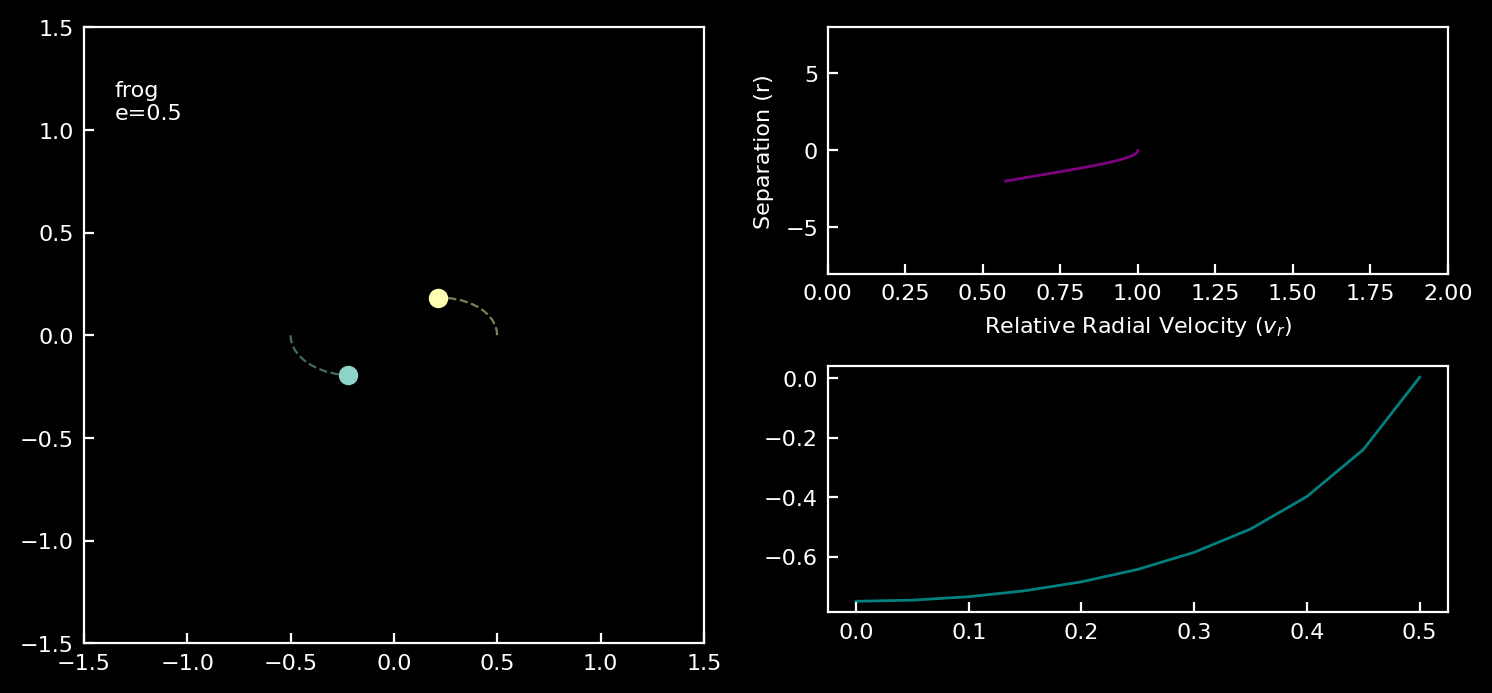
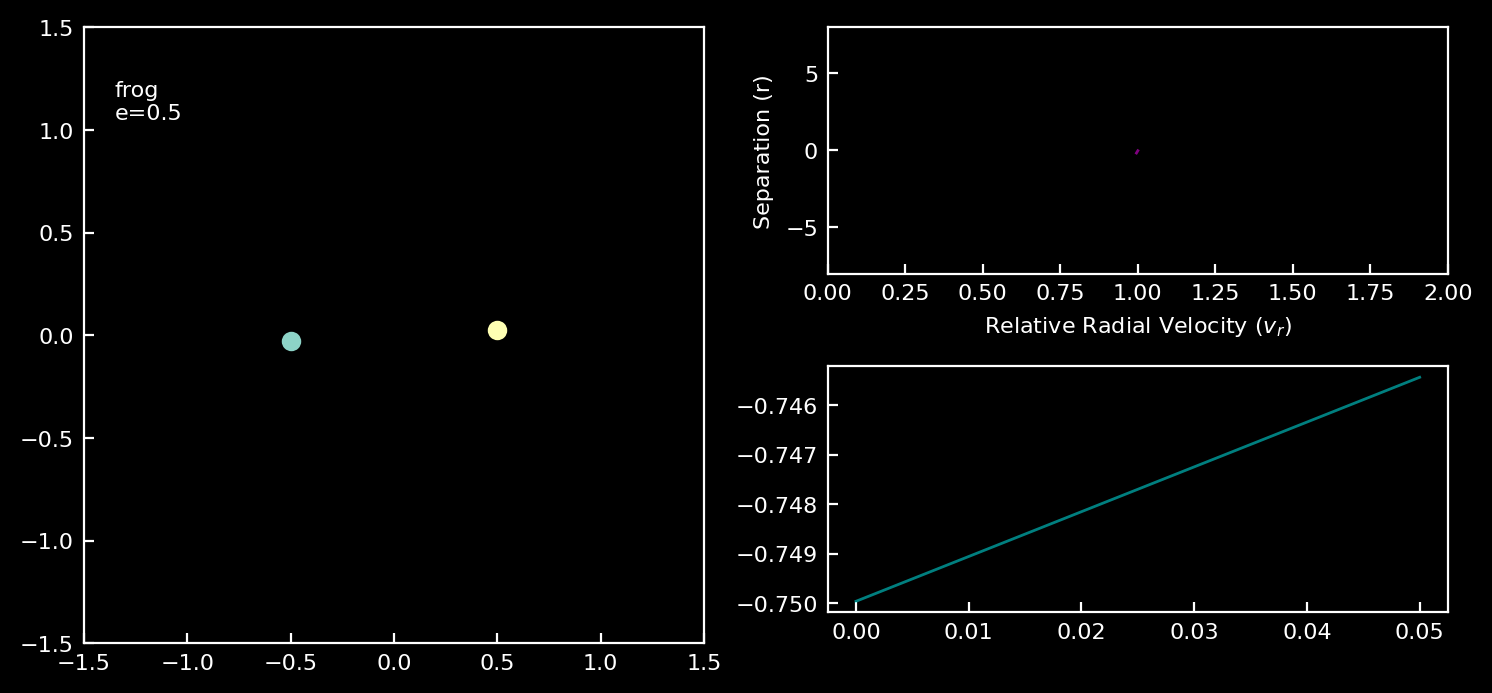
definition of energy is wrong

diff --git a/hws/hw_6_garcia/pset6_frog.c b/hws/hw_6_garcia/pset6_frog.c
@@ -21,15 +21,15 @@ int readmatrix(size_t rows, size_t cols, float (*a)[cols], const char* filename)
     }
 
 
-    fclose (pf); 
-    return 1; 
+    fclose (pf);
+    return 1;
 }
 
 void grav_deriv(float t, float init[][6], float val_derivs[][6], float mass_vec[], int particles){
     // each row of init is a particle with 6 columns for the parameters
     // the first three columns are (x,y,z), followed by the velocities for each component
     // each row of val derivs is the corresponding derivatives; i.e. (vx,vy,vz,ax,ay,az)
-    float G = 1.0; 
+    float G = 1.0;
 
     for (int primary_p = 0;  primary_p < particles;  primary_p++){
         // loop over the particles, finding the acceleartions by considering all others as secondaries.
@@ -49,8 +49,8 @@ void grav_deriv(float t, float init[][6], float val_derivs[][6], float mass_vec[
         float p_acc_x = 0;
         float p_acc_y = 0;
         float p_acc_z = 0;
-        
-        for (int secondary_p = 0; secondary_p < particles; secondary_p++){ 
+
+        for (int secondary_p = 0; secondary_p < particles; secondary_p++){
             // calculate each of the acceleration contributed by the other particles
             if (primary_p != secondary_p){
                 // printf("primary particle %d \n", primary_p);
@@ -60,17 +60,17 @@ void grav_deriv(float t, float init[][6], float val_derivs[][6], float mass_vec[
                 float s_pos_x = init[secondary_p][0];
                 float s_pos_y = init[secondary_p][1];
                 float s_pos_z = init[secondary_p][2];
-                
-                // calculate the difference in position between each component 
+
+                // calculate the difference in position between each component
                 float x_diff = p_pos_x-s_pos_x;
                 float y_diff = p_pos_y-s_pos_y;
                 float z_diff = p_pos_z-s_pos_z;
 
-                float mag_diff = pow(pow(x_diff, 2) + pow(y_diff, 2) + pow(z_diff, 2) , 0.5);
+                float mag_diff_cubed = powf(x_diff*x_diff + y_diff*y_diff + z_diff*z_diff , 1.5);
 
-                p_acc_x = (G * s_mass * x_diff) / pow(mag_diff,3);
-                p_acc_y = (G * s_mass * y_diff) / pow(mag_diff,3);
-                p_acc_z = (G * s_mass * z_diff) / pow(mag_diff,3);
+                p_acc_x = (G * s_mass * x_diff) / mag_diff_cubed ;
+                p_acc_y = (G * s_mass * y_diff) / mag_diff_cubed ;
+                p_acc_z = (G * s_mass * z_diff) / mag_diff_cubed ;
 
                 p_acc_x += p_acc_x;
                 p_acc_y += p_acc_y;
@@ -82,7 +82,7 @@ void grav_deriv(float t, float init[][6], float val_derivs[][6], float mass_vec[
         val_derivs[primary_p][4] = - p_acc_y;
         val_derivs[primary_p][5] = - p_acc_z;
 
-    } 
+    }
 }
 
 int main(int arg_count, char **argv){
@@ -92,13 +92,13 @@ int main(int arg_count, char **argv){
         printf("Output of run will be placed in ./frog_data, be sure that the directory is clean before running");
         return 1;
     }
-    // float eccentricity =  atof(argv[1]) ;  
+    // float eccentricity =  atof(argv[1]) ;
     // float initial_v = pow(2*(1-eccentricity), 0.5);
     int Npar=2;
     // values take the form
-    //  $x_N$, $y_N$, $z_N$, $\dot{x_N}$, $\dot{x_N}$, $\dot{x_N}$ 
+    //  $x_N$, $y_N$, $z_N$, $\dot{x_N}$, $\dot{x_N}$, $\dot{x_N}$
     //argv[6]
-    
+
     float data[2][7];
     float part_mass[2];
     float vals[2][6];
@@ -133,12 +133,12 @@ int main(int arg_count, char **argv){
     // };
 
     // float vals[][6]={
-    //     -0.5, 0.0, 0.0, 0.0, -initial_v/2.0, 0.0, 
+    //     -0.5, 0.0, 0.0, 0.0, -initial_v/2.0, 0.0,
     //     0.5, 0.0, 0.0, 0.0, initial_v/2.0, 0.0
     //     };
-    
+
     float val_derivs[Npar][6];
-    // float part_mass[] = {1., 1.}; 
+    // float part_mass[] = {1., 1.};
     int output_freq = atoi(argv[4]);
 	float end_time = atof(argv[3]);
 	float step = atof(argv[2]) ;
@@ -146,19 +146,19 @@ int main(int arg_count, char **argv){
 
 	float time = 0.0;
 	// y[1]=1.;
-	// y[2]=0.; 
+	// y[2]=0.;
 
-    // naming scheme 
+    // naming scheme
     char filename[200];
     sprintf(filename, "./frog_data/out_%04d.txt", 0);
-    
+
     // print the intial conditions
     printf("# \t time, \t xpos, \t ypos, \t zpos, \t xvel, \t yvel, \t zvel\n");
     for (int i=0; i<Npar; i++){
         printf(
             "%3.10e %3.10e %3.10e %3.10e %3.10e %3.10e %3.10e\n",
               time, vals[i][0], vals[i][1], vals[i][2], vals[i][3], vals[i][4], vals[i][5]
-             );	
+             );
     }
     // print intial conditions to file 000
     FILE *fp;
@@ -168,24 +168,24 @@ int main(int arg_count, char **argv){
     for (int i=0; i<Npar; i++){
         fprintf(fp, "%3.10e %3.10e %3.10e %3.10e %3.10e %3.10e %3.10e\n",
             time, vals[i][0], vals[i][1], vals[i][2], vals[i][3], vals[i][4], vals[i][5]
-            );	
+            );
     }
     fclose(fp );
 
     printf("----------------------- \n");
     // go through each particles and compute the position based on forces of other particles.
-    
-	for(int n=1; n<=Nsteps; n++){
+
+	for(int n=0; n<Nsteps; n++){
         grav_deriv(time, vals, val_derivs, part_mass, Npar);
-        
+
         // for (int i=0; i<Npar; i++){
-        //     printf("derivs: %3.10e %3.10e %3.10e %3.10e %3.10e %3.10e %3.10e\n", 
+        //     printf("derivs: %3.10e %3.10e %3.10e %3.10e %3.10e %3.10e %3.10e\n",
         //     time, val_derivs[i][0], val_derivs[i][1], val_derivs[i][2], val_derivs[i][3], val_derivs[i][4], val_derivs[i][5]
         //         );	}
-        
+
         //  val has x, y, z, vx, vy, vz
         //  val derivs has vx, vy, vz, ax, ay, az
-        
+
         for (int p = 0; p < Npar; p++){
             // replace the velocity with the half velocity kick
             float half_step = 0.5*step;
@@ -200,21 +200,21 @@ int main(int arg_count, char **argv){
             vals[p][1] = vals[p][1] + step * vals[p][4];
             vals[p][2] = vals[p][2] + step * vals[p][5];
 
-            // time
-            grav_deriv(half_time, vals, val_derivs, part_mass, Npar);
-            
+            // time, your taking the derivative using the new values already, somehow use a a place holder value to not calculate the derivative alreadu
+            grav_deriv(time, vals, val_derivs, part_mass, Npar);
+
             // new velocities
             vals[p][3] = vals[p][3] + half_step * val_derivs[p][3];
             vals[p][4] = vals[p][4] + half_step * val_derivs[p][4];
             vals[p][5] = vals[p][5] + half_step * val_derivs[p][5];
-            
-           
+
+
 
         }
 
         time = n * step;
-       
-        
+
+
         sprintf(filename, "./frog_data/out_%04d.txt", n);
         printf("%d",n %  output_freq);
         if (n %  output_freq == 0){
@@ -223,12 +223,12 @@ int main(int arg_count, char **argv){
             fp = fopen(filename,"w");
             fprintf(fp, "# \t time, \t xpos, \t ypos, \t zpos, \t xvel, \t yvel, \t zvel\n");
             for (int i=0; i<Npar; i++){
-                printf("%3.10e %3.10e %3.10e %3.10e %3.10e %3.10e %3.10e\n", 
+                printf("%3.10e %3.10e %3.10e %3.10e %3.10e %3.10e %3.10e\n",
                 time, vals[i][0], vals[i][1], vals[i][2], vals[i][3], vals[i][4], vals[i][5]
-                    );	
-                fprintf(fp, "%3.10e %3.10e %3.10e %3.10e %3.10e %3.10e %3.10e\n", 
+                    );
+                fprintf(fp, "%3.10e %3.10e %3.10e %3.10e %3.10e %3.10e %3.10e\n",
                 time,  vals[i][0], vals[i][1], vals[i][2], vals[i][3], vals[i][4], vals[i][5]
-                    );	
+                    );
             }
             fclose(fp);
             printf("----------------------- \n");
@@ -236,5 +236,5 @@ int main(int arg_count, char **argv){
 	}
 	return 1;
 	}
-	
+
 

diff --git a/hws/hw_6_garcia/plot.py b/hws/hw_6_garcia/plot.py
@@ -8,7 +8,6 @@ from PIL import Image
 if len(sys.argv) != 5:
     print(sys.argv[0], "usage:")
     print("{} data_directory output_directory method eccentricity".format(sys.argv[0]))
-
     exit()
 
 print("plotting script")
@@ -17,7 +16,7 @@ frames_dir = sys.argv[2]
 method = sys.argv[3]
 eccentricty = sys.argv[4]
 data_set = sorted(os.listdir(parent_dir))  # [0:10]
-
+# python3 ./plot.py frog_data/ frog_sequence/ frog 0.5
 t = []
 total_e = []
 traj_x_par_1 = []
@@ -50,19 +49,18 @@ with plt.style.context("dark_background"):
             # x_vel = data[:, 4]
             # y_vel = data[:, 5]
             # z_vel = data[:, 6]
-            relative_pos = par2_xyz - par1_xyz
-            separation = np.linalg.norm(relative_pos)
-            v_rel_rad = np.dot(relative_vel, relative_pos) / separation
+           
 
             par1_xyz = data[0, 1:3]
             par2_xyz = data[1, 1:3]
-            
+            relative_pos = par2_xyz - par1_xyz
+          
             par1_vxvyvz = data[0, 4:6]
             par2_vxvyvz = data[1, 4:6]
             
             # par1_vmag = np.sqrt(np.sum(np.square(par1_vxvyvz)))
             # par2_vmag = np.sqrt(np.sum(np.square(par2_vxvyvz)))
-            separation = np.linalg.norm(relative_pos)
+            separation = np.sqrt(np.sum(relative_pos**2))
             
             par1_vmag = np.sqrt(np.sum(par1_vxvyvz**2))
             par2_vmag = np.sqrt(np.sum(par2_vxvyvz**2))
@@ -70,10 +68,10 @@ with plt.style.context("dark_background"):
             total_e.append(energy)
 
             relative_vel = par2_vxvyvz - par1_vxvyvz
-            
-
-            separation = np.linalg.norm(relative_pos)
+            separation =np.sqrt(np.sum(relative_pos**2))
             v_rel_rad = np.dot(relative_vel, relative_pos) / separation
+
+           
 
             r.append(separation)
             v_r.append(v_rel_rad)
